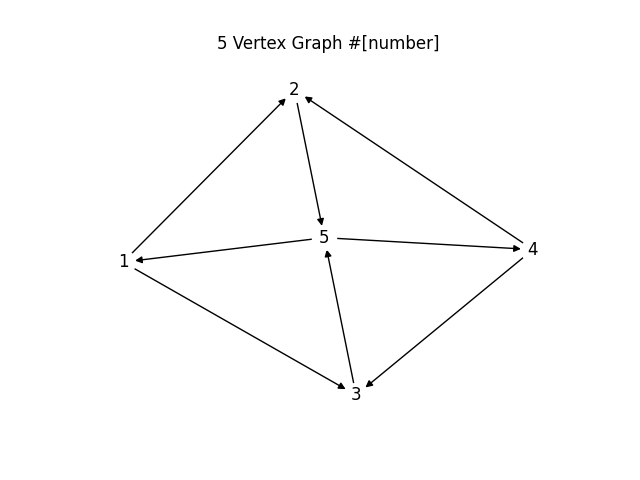
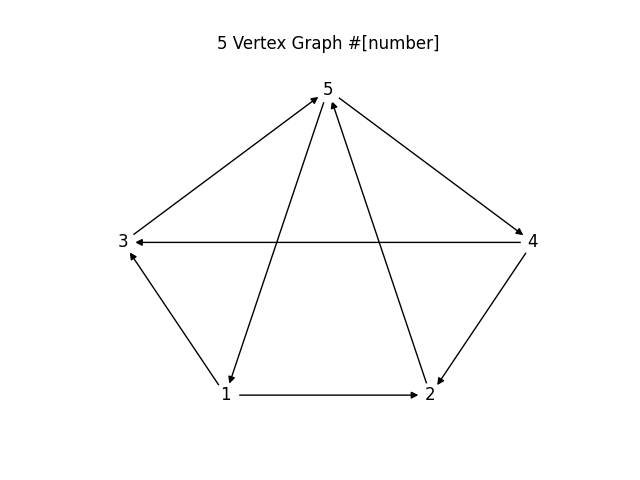
#19 tests in forcing positions

diff --git a/graphVisTest.py b/graphVisTest.py
@@ -22,10 +22,17 @@ for line in contents:
             tempList.append(tempTuple)
         index+=1
 
+    G.add_node(1,pos=(2,1))
+    G.add_node(2,pos=(4,1))
+    G.add_node(3,pos=(1,2))
+    G.add_node(4,pos=(5,2))
+    G.add_node(5,pos=(3,3))
+    pos=nx.get_node_attributes(G,'pos')
+
     print(tempList)
     G.add_edges_from(tempList)
     plt.title("5 Vertex Graph #[number]")
-    nx.draw(G,node_color='white',with_labels=True)
+    nx.draw(G,pos,node_color='white',with_labels=True,)
     plt.savefig("/Users/markymarkscomputer/Desktop/Untitled/graphVisTest.png")
     plt.clf()
     G.clear()
